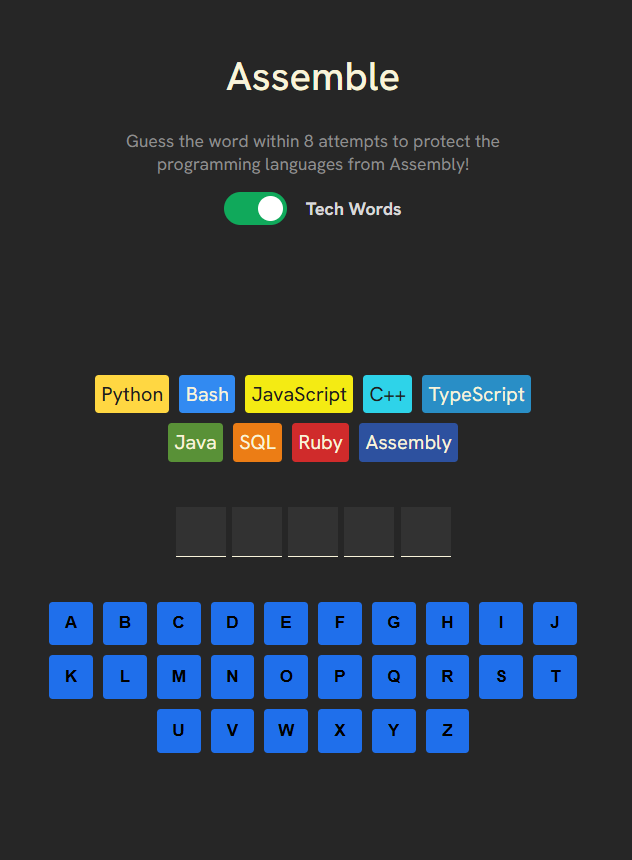
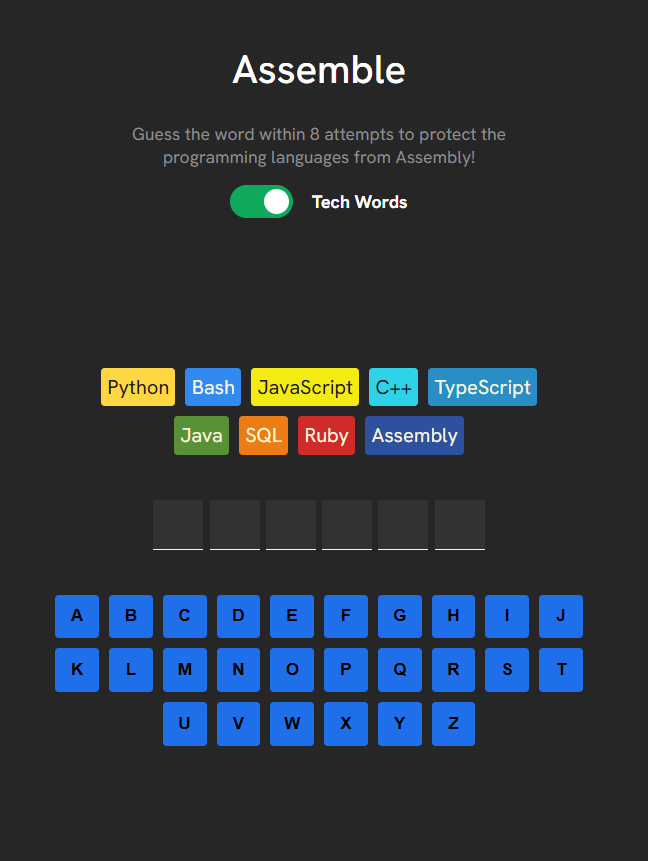
changed preview images in README and adjusted CSS for mobile

diff --git a/src/index.css b/src/index.css
@@ -6,7 +6,7 @@ body {
     margin: 0;
     font-family: "Hanken Grotesk", Arial, sans-serif;
     background-color: #262626;
-    color: #D9D9D9;
+    color: white;
     padding: 0;
     height: 100vh;
 }
@@ -24,7 +24,7 @@ header {
 header > h1 {
     font-size: 2rem;
     font-weight: 500;
-    color: #F9F4DA;
+    color: white;
 }
 
 header > p {
@@ -132,7 +132,7 @@ section.keyboard {
     gap: 8px;
     justify-content: center;
     max-width: 450px;
-    margin-bottom: 36px;
+    margin-bottom: 35px;
 }
 
 section.keyboard > button {
@@ -292,5 +292,14 @@ main {
   to {
     opacity: 1;
     transform: scale(1);
+  }
+}
+
+/* ----- Mobile Screens ----- */
+@media (max-width: 767px) {
+  section.keyboard > button {
+    width: 37px;
+    height: 37px;
+    color: black;
   }
 }
